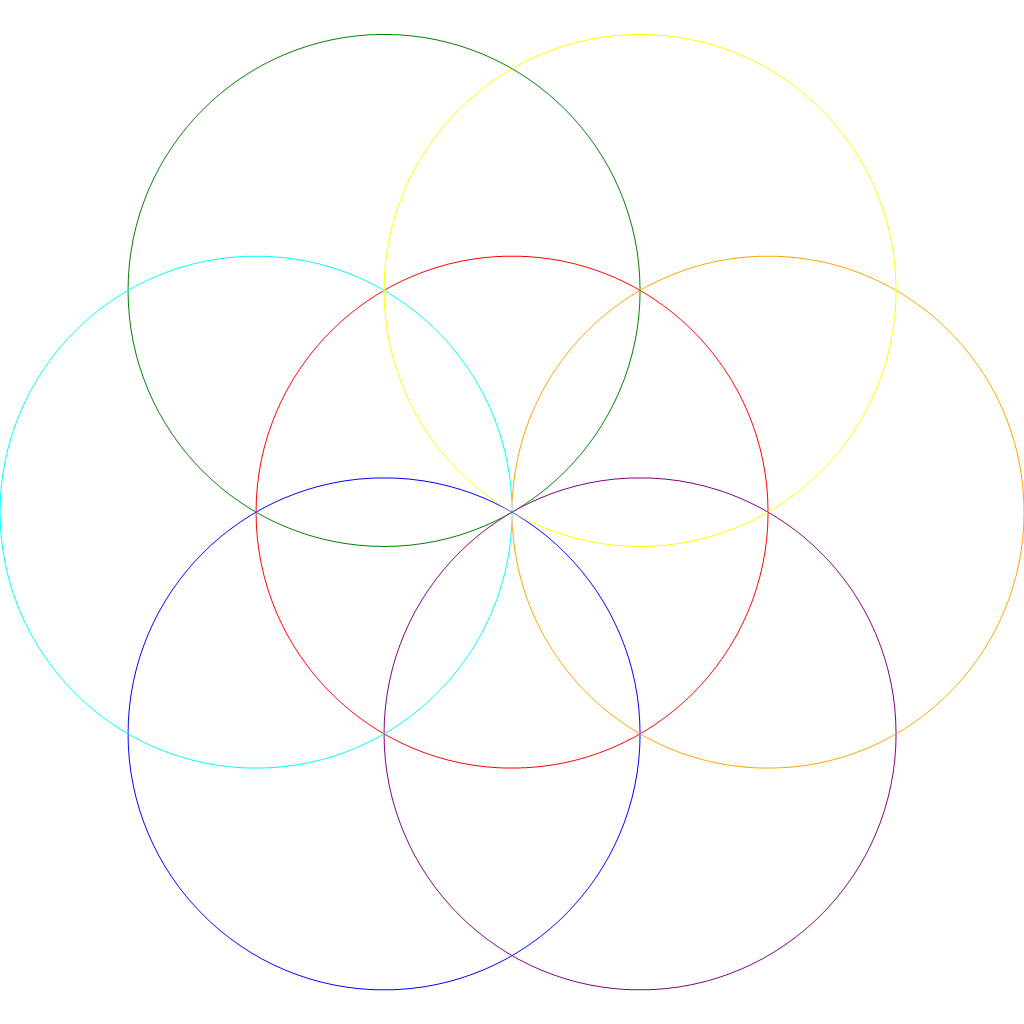
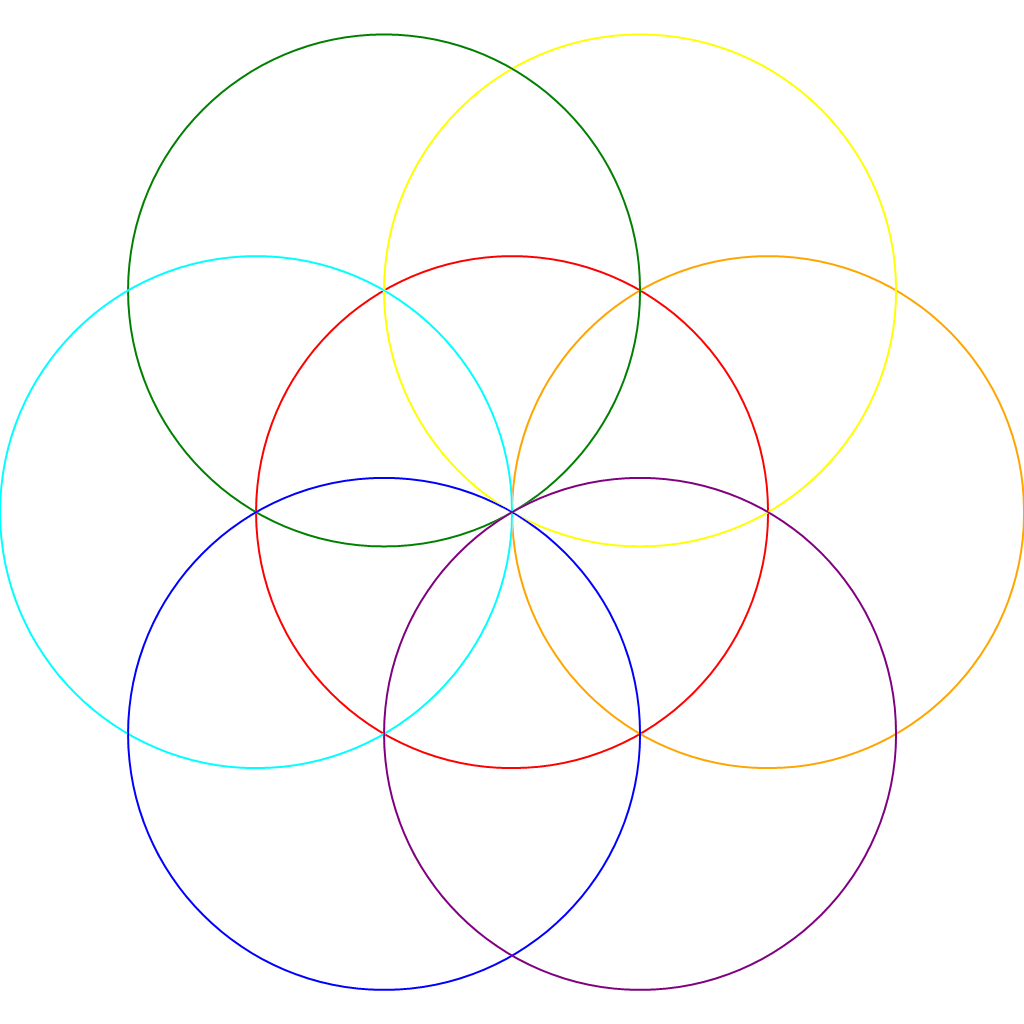
7 Circles

diff --git a/YYX.DrawingAvatar/MainForm.cs b/YYX.DrawingAvatar/MainForm.cs
@@ -40,7 +40,7 @@ namespace YYX.DrawingAvatar
                 graphics.CompositingMode = CompositingMode.SourceOver;
                 graphics.CompositingQuality = CompositingQuality.HighQuality;
 
-                float center = (imageSize - 1) / 2f;       
+                float center = (imageSize - 2) / 2f;       
                 float sin30 = (float)(radius * Math.Sin(30 * Math.PI / 180));
                 float cos30 = (float)(radius * Math.Cos(30 * Math.PI / 180));
 
@@ -60,8 +60,8 @@ namespace YYX.DrawingAvatar
 
         private static void DrawCircle(float radius, Graphics graphics, float cx, float cy, Color color)
         {
-            float drawRadius = radius - 0.5f;
-            using (Pen pen = new Pen(color))
+            float drawRadius = radius - 1f;
+            using (Pen pen = new Pen(color, 2))
             {
                 graphics.DrawEllipse(
                     pen,
